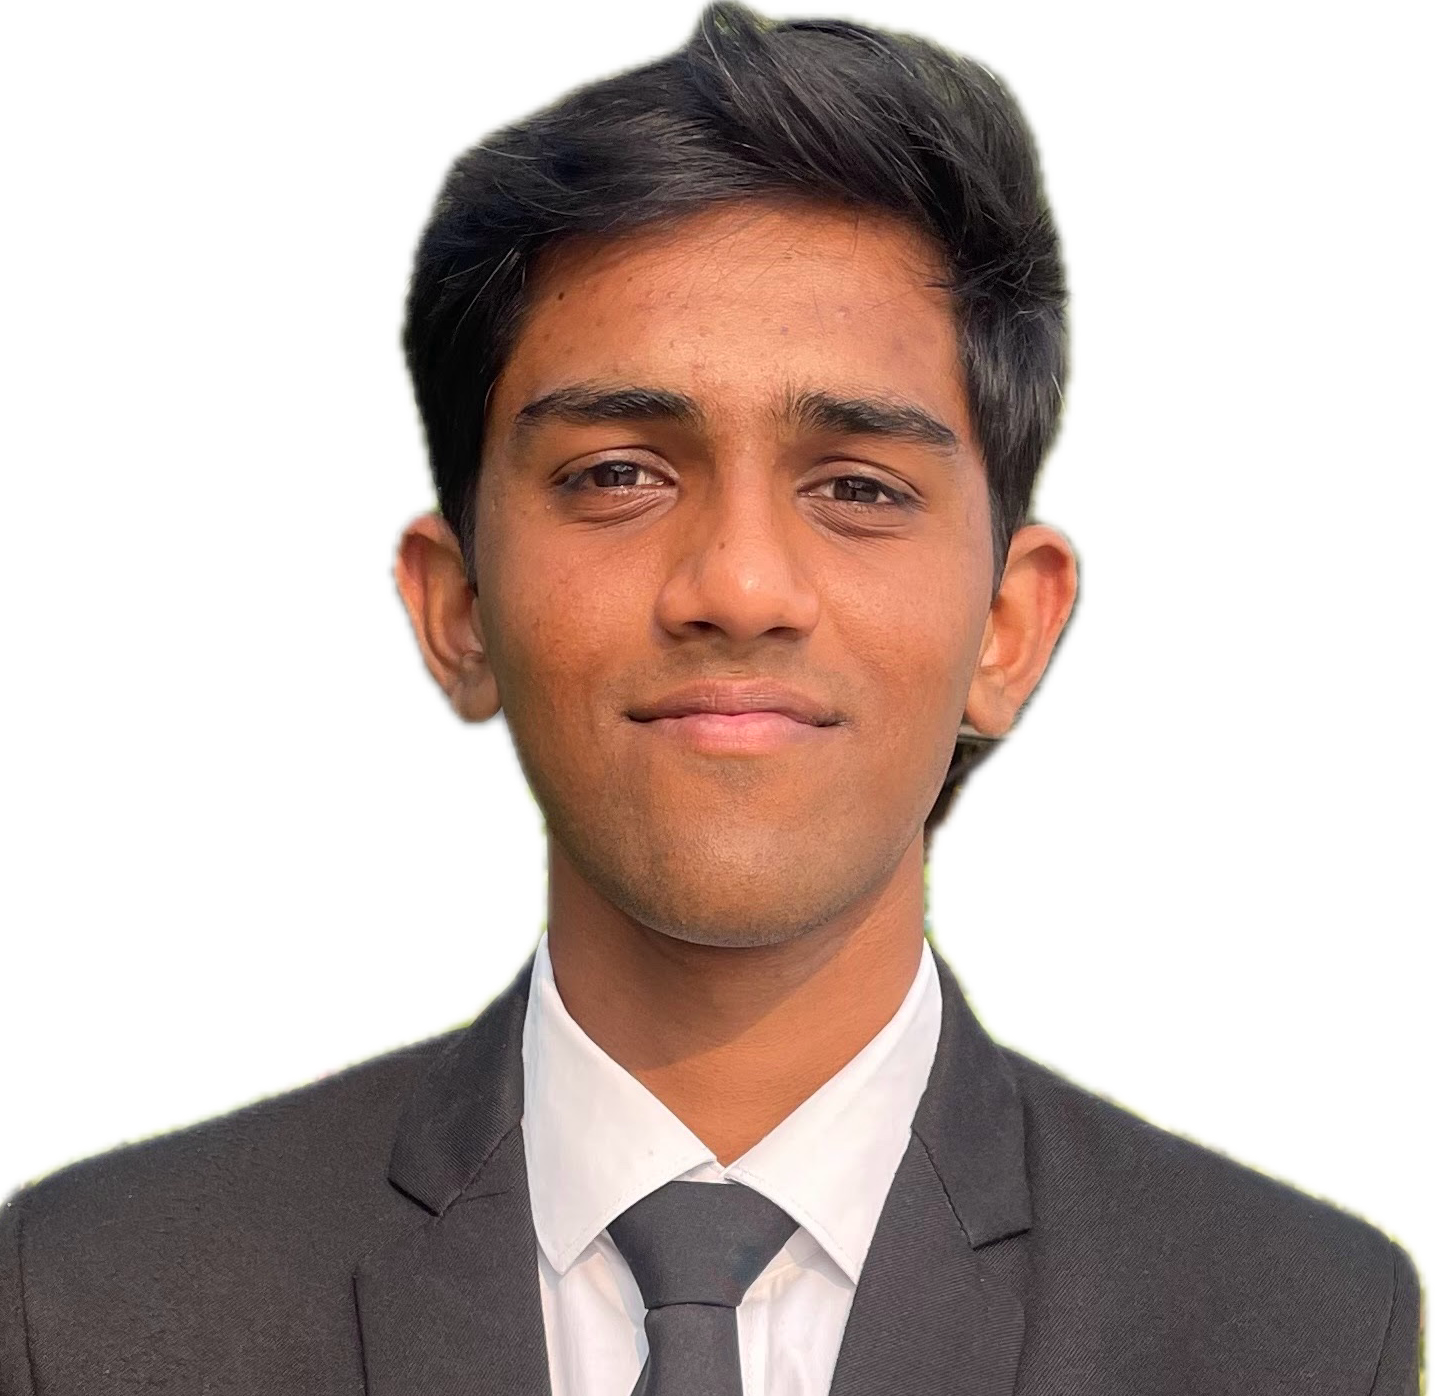
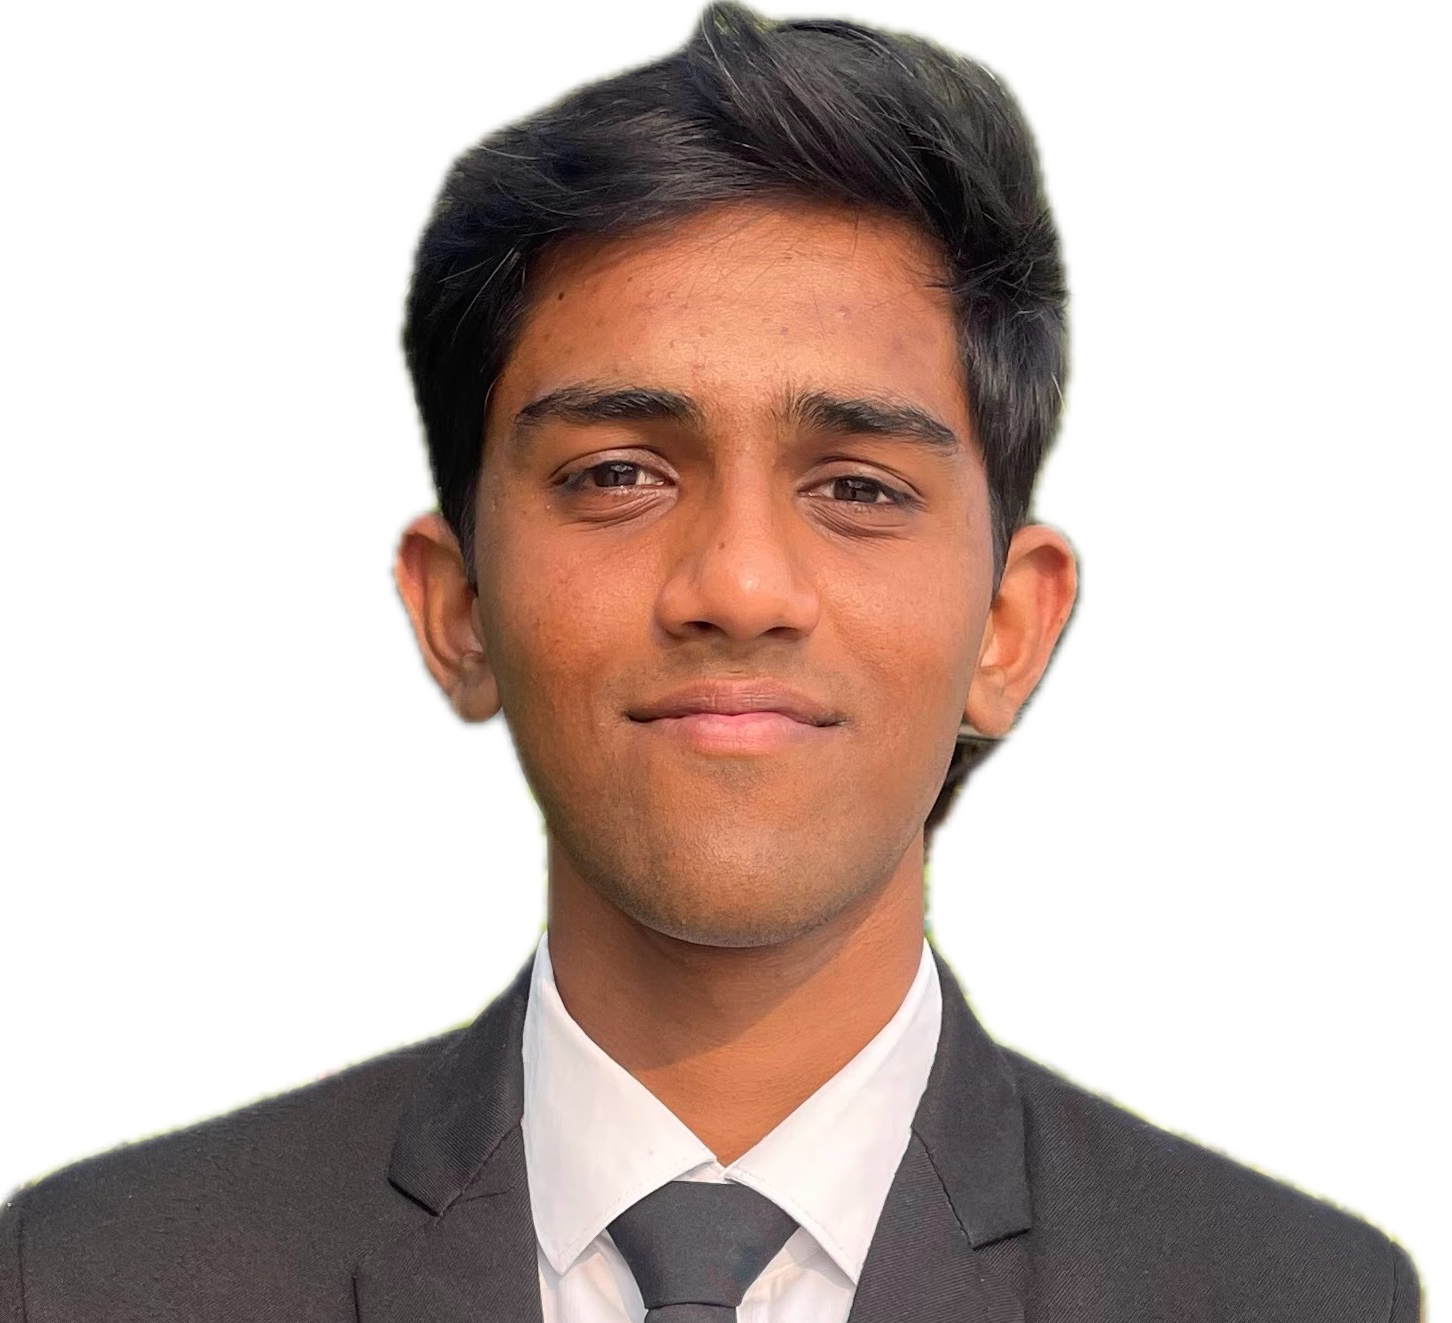
refactor: simplify SkillItem component by removing level and color props

diff --git a/components/content/Skills.tsx b/components/content/Skills.tsx
@@ -1,22 +1,10 @@
 import React from 'react';
 import { Layout, Server, Brain, Terminal, Code2, Globe, Cpu, GitBranch } from 'lucide-react';
 
-const SkillItem: React.FC<{ name: string; level: number; color: string }> = ({ name, level, color }) => (
-  <div className="mb-3 last:mb-0 group">
-    <div className="flex justify-between items-end mb-1">
+const SkillItem: React.FC<{ name: string }> = ({ name }) => (
+  <div className="mb-3 last:mb-0">
+    <div className="mb-1">
       <span className="font-heading font-bold text-xs uppercase tracking-wide text-black group-hover:text-gray-700 transition-colors">{name}</span>
-      <span className="font-mono text-[10px] font-bold text-gray-500">{level}%</span>
-    </div>
-    <div className="h-2.5 w-full bg-gray-100 rounded-full border border-black overflow-hidden relative shadow-[1px_1px_0px_0px_rgba(0,0,0,0.1)]">
-      <div
-        className={`h-full absolute top-0 left-0 ${color} border-r border-black transition-all duration-1000 ease-out group-hover:brightness-110`}
-        style={{ width: `${level}%` }}
-      />
-      {/* Striped Pattern Overlay */}
-      <div
-        className="absolute inset-0 opacity-10"
-        style={{ backgroundImage: 'linear-gradient(45deg, #000 25%, transparent 25%, transparent 50%, #000 50%, #000 75%, transparent 75%, transparent)', backgroundSize: '8px 8px' }}
-      ></div>
     </div>
   </div>
 );
@@ -43,7 +31,7 @@ const SkillCategory: React.FC<{
     {/* Body */}
     <div className="p-4 bg-white flex-1">
       {skills.map(s => (
-        <SkillItem key={s.name} name={s.name} level={s.level} color={color} />
+        <SkillItem key={s.name} name={s.name} />
       ))}
     </div>
   </div>
